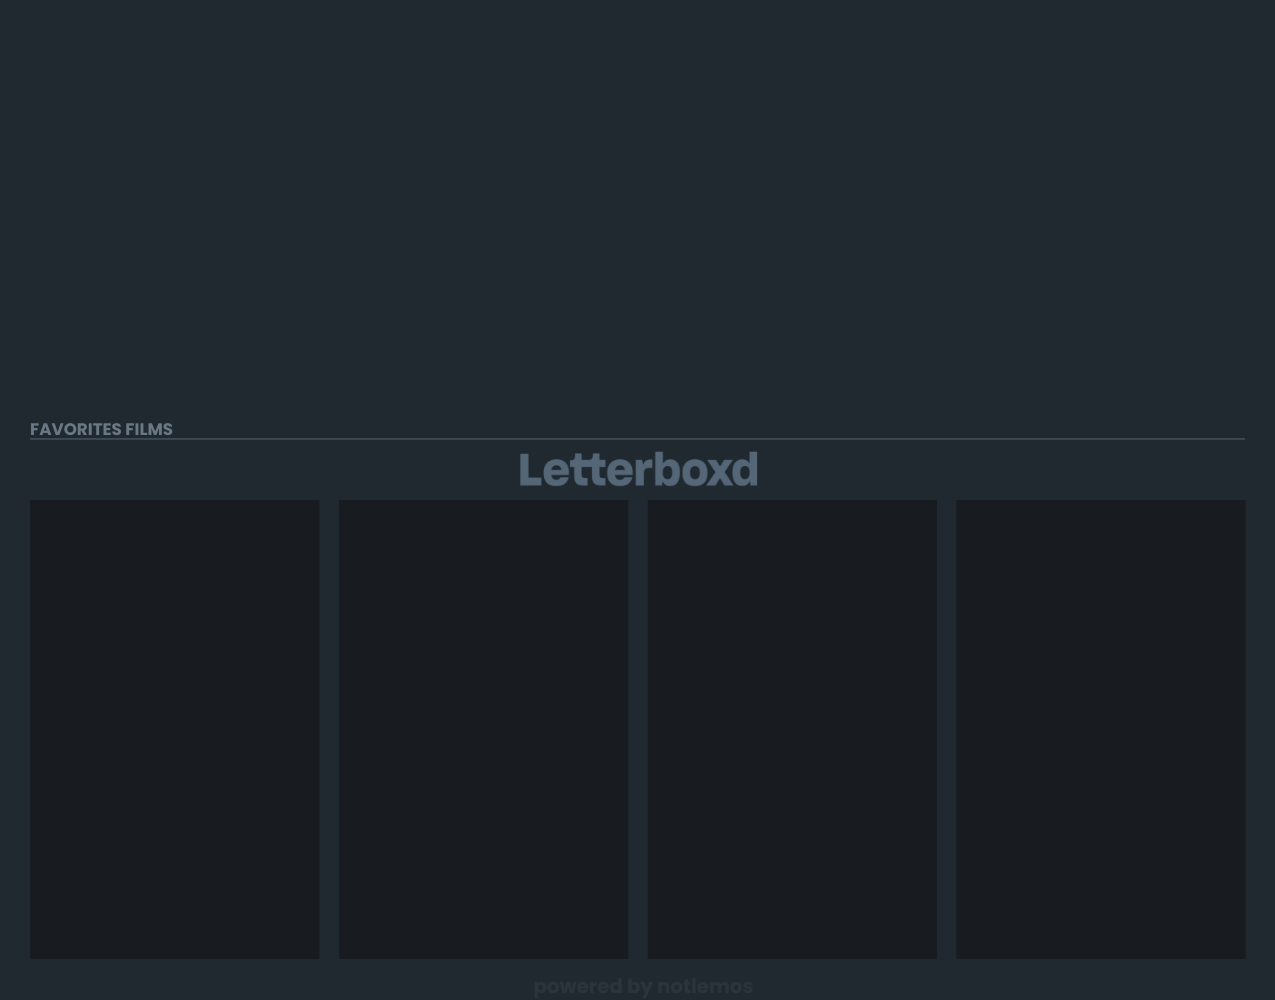
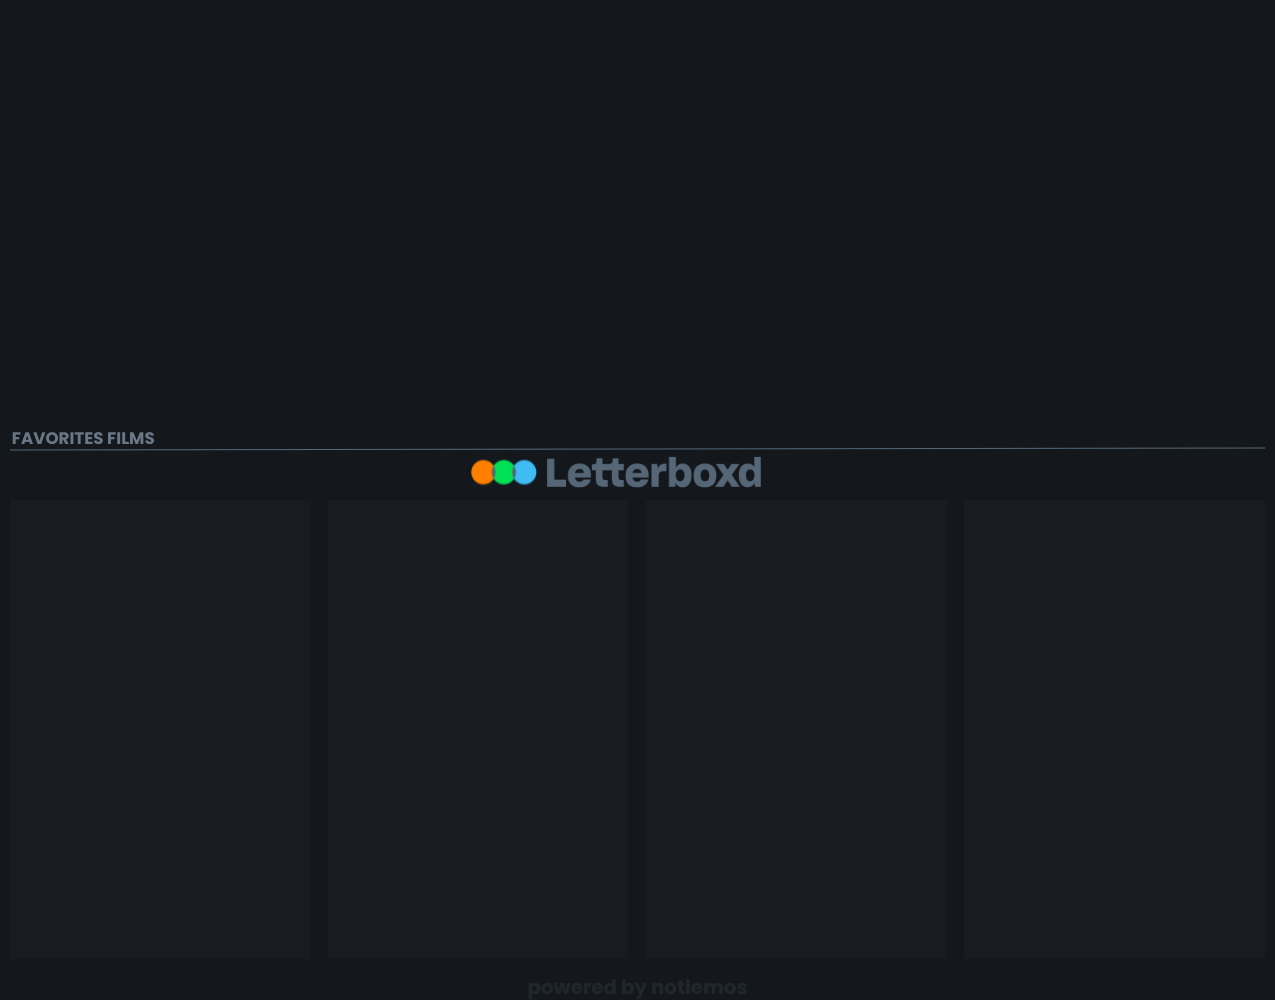
update: profile card letterboxd

Changed region(s): [[0.3671, 0.434, 0.6118, 0.496], [0.0, 0.403, 0.1529, 0.465], [0.4588, 0.961, 0.4894, 0.992]]

diff --git a/src/extensions/profileLetterboxd.py b/src/extensions/profileLetterboxd.py
@@ -63,12 +63,12 @@ class LetterboxdPillow(commands.Cog):
             
             pp_resp = await session.get(profilePic)
             pp_bytes = await pp_resp.read()
-            profPic = Image.open(BytesIO(pp_bytes)).convert('RGBA')
+            profPic = Image.open(BytesIO(pp_bytes)).resize((220, 220)).convert('RGBA')
             
             if statusAccount == 'Patron':
                 patron = Image.open('imgs/patron_letterboxd.png')
                 patron = patron.resize((73, 25), Image.Resampling.LANCZOS)
-                image.paste(patron, (int(text_end_x + 5), 350), patron)
+                image.paste(patron, (int(text_end_x + 5), 352), patron)
                 
             
             mask = Image.new("L", profPic.size, 0)
@@ -85,12 +85,12 @@ class LetterboxdPillow(commands.Cog):
             tasks = [handle_movie(session, d['target']) for d in datas]
             posters = await asyncio.gather(*tasks)
 
-            off_set = 30
+            off_set = 10
             for poster_img in posters:
                 if poster_img:
-                    poster_img = poster_img.resize((290, 459), Image.Resampling.LANCZOS)
+                    poster_img = poster_img.resize((301, 459), Image.Resampling.LANCZOS)
                     image.paste(poster_img, (off_set, 500), poster_img)
-                    off_set += 308
+                    off_set += 318
                     
 
         temp_path = f"/tmp/profile_card{discordId}"

diff --git a/src/scraping/letterboxd.py b/src/scraping/letterboxd.py
@@ -95,8 +95,8 @@ async def getProfile(session, user):
 
         soup = BeautifulSoup(html, 'html.parser')
 
-        span = soup.find('span', class_="avatar -a110 -large")
-        img = span.find('img').get('src')
+        
+        img = soup.find('meta', property="og:image").get('content')
         nameSpan = soup.find('span', class_="displayname tooltip").get_text()
         try:
             patron = soup.find('span', class_="badge -patron").get_text()
@@ -116,8 +116,7 @@ async def getPfp(session, user):
 
         soup = BeautifulSoup(html, 'html.parser')
 
-        span = soup.find('span', class_="avatar -a110 -large")
-        img = span.find('img').get('src')
+        img = soup.find('meta', property="og:image").get('content')
         
         
         return img

diff --git a/src/api/tmdbAPI.py b/src/api/tmdbAPI.py
@@ -20,11 +20,11 @@ async def fetch_data(session, endpoint, media_type):
         posters = data.get('posters', [])
         backdrops = data.get('backdrops', [])
 
-        backdrop = next(islice((b for b in backdrops if b.get('iso_639_1') is None),1 , None), None)
+        backdrop = next(islice((b for b in backdrops if b.get('iso_639_1') is None),0 , None), None)
         poster = next(
             chain(
                 (p for p in posters if p.get('iso_639_1') == 'en'),
-                (p for p in posters if p.get('iso_639_1') is None)
+                (p for p in posters if p.get('iso_639_1') is None),
                 
                 ),
                 None

diff --git a/src/utils/pillowImgs.py b/src/utils/pillowImgs.py
@@ -174,6 +174,6 @@ def fade(img):
         alpha = int(255 * ((altura - y) / grad_height))  # 255 → 0
         draw.line([(0, y), (largura+100, y)], fill=alpha)
    
-    recorte_com_fade = Image.composite(img, Image.new("RGBA", img.size, (32, 40, 48, 255)), fade_mask)
+    recorte_com_fade = Image.composite(img, Image.new("RGBA", img.size, (20, 24, 29, 255)), fade_mask)
     resultado_final = Image.composite(img, recorte_com_fade, fade_mask)
     return resultado_final

diff --git a/src/extensions/guessTheReview.py b/src/extensions/guessTheReview.py
@@ -92,7 +92,7 @@ class GuessTheReviewCog(commands.Cog):
             max_idx = len(str(len(rank)))
 
             lines = [
-                f"{str(idx).rjust(max_idx)}. {i[0].ljust(max_nome)}  {i[1]}"
+                f"{str(idx).zfill(2).rjust(max_idx)}. {i[0].ljust(max_nome)}  {i[1]}"
                 for idx, i in enumerate(rank, start=1)
             ]
                 

diff --git a/src/extensions/matches.py b/src/extensions/matches.py
@@ -28,7 +28,7 @@ class JogosView(commands.Cog):
                 inline=False
             )
         escudo = getEscudo((time))
-        embed.set_thumbnail(url=f"https://www.ogol.com.br{escudo}")
+        embed.set_thumbnail(url=escudo)
         await interaction.followup.send(embed=embed)
        
 
